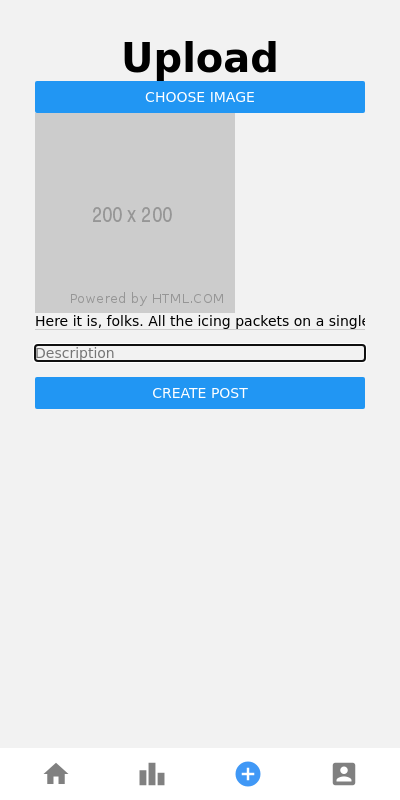
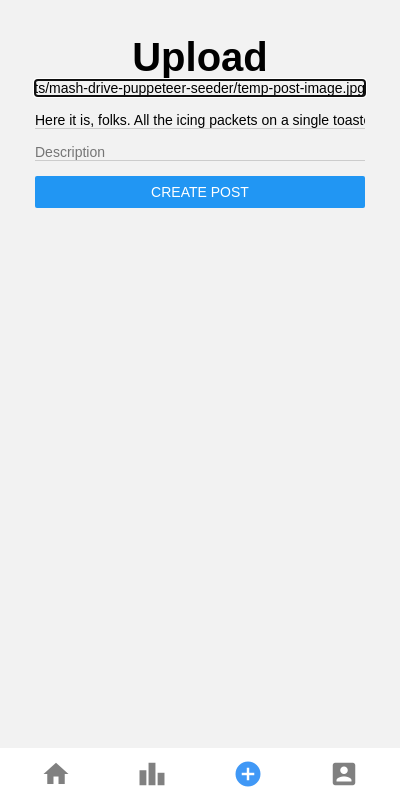
successfully upload images

Changed region(s): [[0.06, 0.0312, 0.93, 0.5312]]

diff --git a/bot.js b/bot.js
@@ -40,39 +40,52 @@ const runSeed = async () => {
       "#root > div > div > div.css-view-1dbjc4n.r-display-6koalj.r-flexDirection-18u37iz.r-padding-edyy15 > div:nth-child(3)";
 
     const titleField =
-      "#root > div > div > div.css-view-1dbjc4n.r-flex-13awgt0 > div > div.css-view-1dbjc4n.r-bottom-1p0dtai.r-display-6koalj.r-flex-13awgt0.r-flexDirection-1d5kdc7.r-left-1d2f490.r-position-u8s1d.r-right-zchlnj.r-top-ipm5af > div > div > div > div > div:nth-child(4) > input";
+      "#root > div > div > div.css-view-1dbjc4n.r-flex-13awgt0 > div > div.css-view-1dbjc4n.r-bottom-1p0dtai.r-display-6koalj.r-flex-13awgt0.r-flexDirection-1d5kdc7.r-left-1d2f490.r-position-u8s1d.r-right-zchlnj.r-top-ipm5af > div > div > div > div > div:nth-child(3) > input";
 
-    const descField =
-      "#root > div > div > div.css-view-1dbjc4n.r-flex-13awgt0 > div > div.css-view-1dbjc4n.r-bottom-1p0dtai.r-display-6koalj.r-flex-13awgt0.r-flexDirection-1d5kdc7.r-left-1d2f490.r-position-u8s1d.r-right-zchlnj.r-top-ipm5af > div > div > div > div > div:nth-child(5) > input";
+    // const descField =
+    //   "#root > div > div > div.css-view-1dbjc4n.r-flex-13awgt0 > div > div.css-view-1dbjc4n.r-bottom-1p0dtai.r-display-6koalj.r-flex-13awgt0.r-flexDirection-1d5kdc7.r-left-1d2f490.r-position-u8s1d.r-right-zchlnj.r-top-ipm5af > div > div > div > div > div:nth-child(6) > input";
+    const imgField =
+      "#root > div > div > div.css-view-1dbjc4n.r-flex-13awgt0 > div > div.css-view-1dbjc4n.r-bottom-1p0dtai.r-display-6koalj.r-flex-13awgt0.r-flexDirection-1d5kdc7.r-left-1d2f490.r-position-u8s1d.r-right-zchlnj.r-top-ipm5af > div > div > div > div > div:nth-child(2) > input";
+
+    const uploadButton =
+      "#root > div > div > div.css-view-1dbjc4n.r-flex-13awgt0 > div > div.css-view-1dbjc4n.r-bottom-1p0dtai.r-display-6koalj.r-flex-13awgt0.r-flexDirection-1d5kdc7.r-left-1d2f490.r-position-u8s1d.r-right-zchlnj.r-top-ipm5af > div > div > div > div > div:nth-child(5) > div";
 
     // Loop through uploading files time
-    for (let i = 0, n = postData.length; i < n; i++) {
+    for (let i = 0, n = postData.length; i < 1; i++) {
       // Download image locally temporarily so we can upload it using the built in file input
       const image = await downloadImage(
         postData[i].image_url,
         "temp-post-image.jpg"
       );
-      console.log("Downloaded image...");
+      console.log(`Downloaded image ${postData[i].image_url}...`);
+      postData[i].image_url;
       // Nav to Upload screen
       await page.waitForSelector(uploadNavButton);
       await page.screenshot({ path: "bot_images/load1.png" });
       await page.click(uploadNavButton);
 
       // Upload stuff area
-      await page.click(
-        "#root > div > div > div.css-view-1dbjc4n.r-flex-13awgt0 > div > div.css-view-1dbjc4n.r-bottom-1p0dtai.r-display-6koalj.r-flex-13awgt0.r-flexDirection-1d5kdc7.r-left-1d2f490.r-position-u8s1d.r-right-zchlnj.r-top-ipm5af > div > div > div > div > div.css-cursor-18t94o4.css-view-1dbjc4n.r-backgroundColor-14sbq61.r-borderRadius-1jkafct.r-cursor-1loqt21.r-touchAction-1otgn73.r-transitionProperty-1i6wzkk.r-userSelect-lrvibr"
-      );
       await page.screenshot({ path: "bot_images/load2.png" });
 
-      await page.waitForSelector(
-        "#root > div > div > div.css-view-1dbjc4n.r-flex-13awgt0 > div > div.css-view-1dbjc4n.r-bottom-1p0dtai.r-display-6koalj.r-flex-13awgt0.r-flexDirection-1d5kdc7.r-left-1d2f490.r-position-u8s1d.r-right-zchlnj.r-top-ipm5af > div > div > div > div > div.css-cursor-18t94o4.css-view-1dbjc4n.r-backgroundColor-14sbq61.r-borderRadius-1jkafct.r-cursor-1loqt21.r-touchAction-1otgn73.r-transitionProperty-1i6wzkk.r-userSelect-lrvibr"
-      );
+      await page.waitForSelector(uploadButton);
       await page.type(titleField, postData[i].title);
-      await page.type(descField, postData[i].description);
+      await page.type(
+        imgField,
+        "/home/joe/northcoders/projects/mash-drive-puppeteer-seeder/temp-post-image.jpg"
+      );
 
       await page.screenshot({ path: "bot_images/before-upload.png" });
+
+      await page.click(uploadButton);
+      console.log("Submitted...");
+      // unfortunately with thjis method no programmatic  way to wait forr upload, just timeout
+      console.log("Now waiting...");
+      await page.screenshot({ path: "bot_images/beforewait.png" });
+      await new Promise((resolve) => setTimeout(resolve, 3000));
+      await page.screenshot({ path: "bot_images/afterwait.png" });
       // refresh for next loop (maybe unnecesarry)
-      await page.reload({ waitUntil: ["networkidle0", "domcontentloaded"] });
+      console.log(`Image ${i} done...`);
+      await page.reload();
     }
 
     console.log("Finished!");
@@ -81,4 +94,13 @@ const runSeed = async () => {
     console.log("ERR>>>>>", err, "<<<<< ERR");
   }
 };
-runSeed();
+
+const temp = async () => {
+  for (let i = 0, n = postData.length; i < n; i++) {
+    const image = await downloadImage(
+      postData[i].image_url,
+      `temp-post-image${i}.jpg`
+    );
+  }
+};
+temp();

diff --git a/downloadImage.js b/downloadImage.js
@@ -18,3 +18,5 @@ module.exports = downloadImage = (url, image_path) =>
           .on("error", (e) => reject(e));
       })
   );
+
+  
